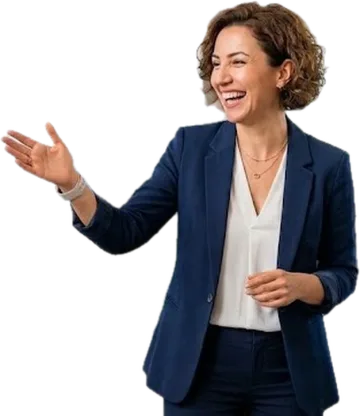
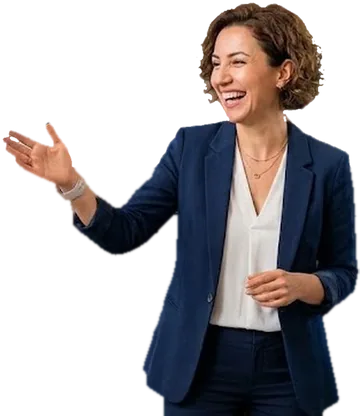
Kampanya kişi görseli: eski beyaz arka plandan kalan kenar halesi ve saç arasındaki beyazlıklar temizlendi; ?v=2

diff --git a/blog/index.html b/blog/index.html
@@ -2438,7 +2438,7 @@
         <div class="pv-dots"></div>
         <div class="pv-ring r3"></div><div class="pv-ring r2"></div><div class="pv-ring r1"></div>
         <div class="pv-glow"></div>
-        <img class="pv-person" src="/img/kampanya-kisi-626.webp" srcset="/img/kampanya-kisi-360.webp 360w, /img/kampanya-kisi-626.webp 626w" sizes="(max-width: 760px) 310px, 440px" width="626" height="722" decoding="async" alt="">
+        <img class="pv-person" src="/img/kampanya-kisi-626.webp?v=2" srcset="/img/kampanya-kisi-360.webp?v=2 360w, /img/kampanya-kisi-626.webp?v=2 626w" sizes="(max-width: 760px) 310px, 440px" width="626" height="722" decoding="async" alt="">
         <div class="pv-float f1 pv-star"><i>∞</i><div><small>En büyük avantaj</small>Sınırsız e-Fatura Kontörü<span class="free">Ofis&nbsp;PLUS · Jet</span></div></div>
         <div class="pv-float f2"><i><svg><use href="#i-sign"/></svg></i><div><small>Ofis&nbsp;PLUS · Jet&nbsp;PLUS</small>1 Yıllık e-İmza</div></div>
         <div class="pv-float f3"><i><svg><use href="#i-bank"/></svg></i><div><small>Ofis&nbsp;PLUS</small>Banka Entegrasyonu</div></div>

diff --git a/cari-hesap-programi/index.html b/cari-hesap-programi/index.html
@@ -490,7 +490,7 @@
         <div class="pv-dots"></div>
         <div class="pv-ring r3"></div><div class="pv-ring r2"></div><div class="pv-ring r1"></div>
         <div class="pv-glow"></div>
-        <img class="pv-person" src="/img/kampanya-kisi-626.webp" srcset="/img/kampanya-kisi-360.webp 360w, /img/kampanya-kisi-626.webp 626w" sizes="(max-width: 760px) 310px, 440px" width="626" height="722" decoding="async" alt="">
+        <img class="pv-person" src="/img/kampanya-kisi-626.webp?v=2" srcset="/img/kampanya-kisi-360.webp?v=2 360w, /img/kampanya-kisi-626.webp?v=2 626w" sizes="(max-width: 760px) 310px, 440px" width="626" height="722" decoding="async" alt="">
         <div class="pv-float f1 pv-star"><i>∞</i><div><small>En büyük avantaj</small>Sınırsız e-Fatura Kontörü<span class="free">Ofis&nbsp;PLUS · Jet</span></div></div>
         <div class="pv-float f2"><i><svg><use href="#i-sign"/></svg></i><div><small>Ofis&nbsp;PLUS · Jet&nbsp;PLUS</small>1 Yıllık e-İmza</div></div>
         <div class="pv-float f3"><i><svg><use href="#i-bank"/></svg></i><div><small>Ofis&nbsp;PLUS</small>Banka Entegrasyonu</div></div>

diff --git a/e-arsiv/index.html b/e-arsiv/index.html
@@ -521,7 +521,7 @@
         <div class="pv-dots"></div>
         <div class="pv-ring r3"></div><div class="pv-ring r2"></div><div class="pv-ring r1"></div>
         <div class="pv-glow"></div>
-        <img class="pv-person" src="/img/kampanya-kisi-626.webp" srcset="/img/kampanya-kisi-360.webp 360w, /img/kampanya-kisi-626.webp 626w" sizes="(max-width: 760px) 310px, 440px" width="626" height="722" decoding="async" alt="">
+        <img class="pv-person" src="/img/kampanya-kisi-626.webp?v=2" srcset="/img/kampanya-kisi-360.webp?v=2 360w, /img/kampanya-kisi-626.webp?v=2 626w" sizes="(max-width: 760px) 310px, 440px" width="626" height="722" decoding="async" alt="">
         <div class="pv-float f1 pv-star"><i>∞</i><div><small>En büyük avantaj</small>Sınırsız e-Fatura Kontörü<span class="free">Ofis&nbsp;PLUS · Jet</span></div></div>
         <div class="pv-float f2"><i><svg><use href="#i-sign"/></svg></i><div><small>Ofis&nbsp;PLUS · Jet&nbsp;PLUS</small>1 Yıllık e-İmza</div></div>
         <div class="pv-float f3"><i><svg><use href="#i-bank"/></svg></i><div><small>Ofis&nbsp;PLUS</small>Banka Entegrasyonu</div></div>

diff --git a/e-fatura/index.html b/e-fatura/index.html
@@ -506,7 +506,7 @@
         <div class="pv-dots"></div>
         <div class="pv-ring r3"></div><div class="pv-ring r2"></div><div class="pv-ring r1"></div>
         <div class="pv-glow"></div>
-        <img class="pv-person" src="/img/kampanya-kisi-626.webp" srcset="/img/kampanya-kisi-360.webp 360w, /img/kampanya-kisi-626.webp 626w" sizes="(max-width: 760px) 310px, 440px" width="626" height="722" decoding="async" alt="">
+        <img class="pv-person" src="/img/kampanya-kisi-626.webp?v=2" srcset="/img/kampanya-kisi-360.webp?v=2 360w, /img/kampanya-kisi-626.webp?v=2 626w" sizes="(max-width: 760px) 310px, 440px" width="626" height="722" decoding="async" alt="">
         <div class="pv-float f1 pv-star"><i>∞</i><div><small>En büyük avantaj</small>Sınırsız e-Fatura Kontörü<span class="free">Ofis&nbsp;PLUS · Jet</span></div></div>
         <div class="pv-float f2"><i><svg><use href="#i-sign"/></svg></i><div><small>Ofis&nbsp;PLUS · Jet&nbsp;PLUS</small>1 Yıllık e-İmza</div></div>
         <div class="pv-float f3"><i><svg><use href="#i-bank"/></svg></i><div><small>Ofis&nbsp;PLUS</small>Banka Entegrasyonu</div></div>

diff --git a/e-ihracat-programi/index.html b/e-ihracat-programi/index.html
@@ -521,7 +521,7 @@
         <div class="pv-dots"></div>
         <div class="pv-ring r3"></div><div class="pv-ring r2"></div><div class="pv-ring r1"></div>
         <div class="pv-glow"></div>
-        <img class="pv-person" src="/img/kampanya-kisi-626.webp" srcset="/img/kampanya-kisi-360.webp 360w, /img/kampanya-kisi-626.webp 626w" sizes="(max-width: 760px) 310px, 440px" width="626" height="722" decoding="async" alt="">
+        <img class="pv-person" src="/img/kampanya-kisi-626.webp?v=2" srcset="/img/kampanya-kisi-360.webp?v=2 360w, /img/kampanya-kisi-626.webp?v=2 626w" sizes="(max-width: 760px) 310px, 440px" width="626" height="722" decoding="async" alt="">
         <div class="pv-float f1 pv-star"><i>∞</i><div><small>En büyük avantaj</small>Sınırsız e-Fatura Kontörü<span class="free">Ofis&nbsp;PLUS · Jet</span></div></div>
         <div class="pv-float f2"><i><svg><use href="#i-sign"/></svg></i><div><small>Ofis&nbsp;PLUS · Jet&nbsp;PLUS</small>1 Yıllık e-İmza</div></div>
         <div class="pv-float f3"><i><svg><use href="#i-bank"/></svg></i><div><small>Ofis&nbsp;PLUS</small>Banka Entegrasyonu</div></div>

diff --git a/e-imza-programi/index.html b/e-imza-programi/index.html
@@ -623,7 +623,7 @@
         <div class="pv-dots"></div>
         <div class="pv-ring r3"></div><div class="pv-ring r2"></div><div class="pv-ring r1"></div>
         <div class="pv-glow"></div>
-        <img class="pv-person" src="/img/kampanya-kisi-626.webp" srcset="/img/kampanya-kisi-360.webp 360w, /img/kampanya-kisi-626.webp 626w" sizes="(max-width: 760px) 310px, 440px" width="626" height="722" decoding="async" alt="">
+        <img class="pv-person" src="/img/kampanya-kisi-626.webp?v=2" srcset="/img/kampanya-kisi-360.webp?v=2 360w, /img/kampanya-kisi-626.webp?v=2 626w" sizes="(max-width: 760px) 310px, 440px" width="626" height="722" decoding="async" alt="">
         <div class="pv-float f1 pv-star"><i>∞</i><div><small>En büyük avantaj</small>Sınırsız e-Fatura Kontörü<span class="free">Ofis&nbsp;PLUS · Jet</span></div></div>
         <div class="pv-float f2"><i><svg><use href="#i-sign"/></svg></i><div><small>Ofis&nbsp;PLUS · Jet&nbsp;PLUS</small>1 Yıllık e-İmza</div></div>
         <div class="pv-float f3"><i><svg><use href="#i-bank"/></svg></i><div><small>Ofis&nbsp;PLUS</small>Banka Entegrasyonu</div></div>

diff --git a/e-irsaliye/index.html b/e-irsaliye/index.html
@@ -541,7 +541,7 @@
         <div class="pv-dots"></div>
         <div class="pv-ring r3"></div><div class="pv-ring r2"></div><div class="pv-ring r1"></div>
         <div class="pv-glow"></div>
-        <img class="pv-person" src="/img/kampanya-kisi-626.webp" srcset="/img/kampanya-kisi-360.webp 360w, /img/kampanya-kisi-626.webp 626w" sizes="(max-width: 760px) 310px, 440px" width="626" height="722" decoding="async" alt="">
+        <img class="pv-person" src="/img/kampanya-kisi-626.webp?v=2" srcset="/img/kampanya-kisi-360.webp?v=2 360w, /img/kampanya-kisi-626.webp?v=2 626w" sizes="(max-width: 760px) 310px, 440px" width="626" height="722" decoding="async" alt="">
         <div class="pv-float f1 pv-star"><i>∞</i><div><small>En büyük avantaj</small>Sınırsız e-Fatura Kontörü<span class="free">Ofis&nbsp;PLUS · Jet</span></div></div>
         <div class="pv-float f2"><i><svg><use href="#i-sign"/></svg></i><div><small>Ofis&nbsp;PLUS · Jet&nbsp;PLUS</small>1 Yıllık e-İmza</div></div>
         <div class="pv-float f3"><i><svg><use href="#i-bank"/></svg></i><div><small>Ofis&nbsp;PLUS</small>Banka Entegrasyonu</div></div>

diff --git a/e-smm-programi/index.html b/e-smm-programi/index.html
@@ -527,7 +527,7 @@
         <div class="pv-dots"></div>
         <div class="pv-ring r3"></div><div class="pv-ring r2"></div><div class="pv-ring r1"></div>
         <div class="pv-glow"></div>
-        <img class="pv-person" src="/img/kampanya-kisi-626.webp" srcset="/img/kampanya-kisi-360.webp 360w, /img/kampanya-kisi-626.webp 626w" sizes="(max-width: 760px) 310px, 440px" width="626" height="722" decoding="async" alt="">
+        <img class="pv-person" src="/img/kampanya-kisi-626.webp?v=2" srcset="/img/kampanya-kisi-360.webp?v=2 360w, /img/kampanya-kisi-626.webp?v=2 626w" sizes="(max-width: 760px) 310px, 440px" width="626" height="722" decoding="async" alt="">
         <div class="pv-float f1 pv-star"><i>∞</i><div><small>En büyük avantaj</small>Sınırsız e-Fatura Kontörü<span class="free">Ofis&nbsp;PLUS · Jet</span></div></div>
         <div class="pv-float f2"><i><svg><use href="#i-sign"/></svg></i><div><small>Ofis&nbsp;PLUS · Jet&nbsp;PLUS</small>1 Yıllık e-İmza</div></div>
         <div class="pv-float f3"><i><svg><use href="#i-bank"/></svg></i><div><small>Ofis&nbsp;PLUS</small>Banka Entegrasyonu</div></div>

diff --git a/fatura-kesme-programi/index.html b/fatura-kesme-programi/index.html
@@ -472,7 +472,7 @@
         <div class="pv-dots"></div>
         <div class="pv-ring r3"></div><div class="pv-ring r2"></div><div class="pv-ring r1"></div>
         <div class="pv-glow"></div>
-        <img class="pv-person" src="/img/kampanya-kisi-626.webp" srcset="/img/kampanya-kisi-360.webp 360w, /img/kampanya-kisi-626.webp 626w" sizes="(max-width: 760px) 310px, 440px" width="626" height="722" decoding="async" alt="">
+        <img class="pv-person" src="/img/kampanya-kisi-626.webp?v=2" srcset="/img/kampanya-kisi-360.webp?v=2 360w, /img/kampanya-kisi-626.webp?v=2 626w" sizes="(max-width: 760px) 310px, 440px" width="626" height="722" decoding="async" alt="">
         <div class="pv-float f1 pv-star"><i>∞</i><div><small>En büyük avantaj</small>Sınırsız e-Fatura Kontörü<span class="free">Ofis&nbsp;PLUS · Jet</span></div></div>
         <div class="pv-float f2"><i><svg><use href="#i-sign"/></svg></i><div><small>Ofis&nbsp;PLUS · Jet&nbsp;PLUS</small>1 Yıllık e-İmza</div></div>
         <div class="pv-float f3"><i><svg><use href="#i-bank"/></svg></i><div><small>Ofis&nbsp;PLUS</small>Banka Entegrasyonu</div></div>

diff --git a/gelir-gider-takip-programi/index.html b/gelir-gider-takip-programi/index.html
@@ -487,7 +487,7 @@
         <div class="pv-dots"></div>
         <div class="pv-ring r3"></div><div class="pv-ring r2"></div><div class="pv-ring r1"></div>
         <div class="pv-glow"></div>
-        <img class="pv-person" src="/img/kampanya-kisi-626.webp" srcset="/img/kampanya-kisi-360.webp 360w, /img/kampanya-kisi-626.webp 626w" sizes="(max-width: 760px) 310px, 440px" width="626" height="722" decoding="async" alt="">
+        <img class="pv-person" src="/img/kampanya-kisi-626.webp?v=2" srcset="/img/kampanya-kisi-360.webp?v=2 360w, /img/kampanya-kisi-626.webp?v=2 626w" sizes="(max-width: 760px) 310px, 440px" width="626" height="722" decoding="async" alt="">
         <div class="pv-float f1 pv-star"><i>∞</i><div><small>En büyük avantaj</small>Sınırsız e-Fatura Kontörü<span class="free">Ofis&nbsp;PLUS · Jet</span></div></div>
         <div class="pv-float f2"><i><svg><use href="#i-sign"/></svg></i><div><small>Ofis&nbsp;PLUS · Jet&nbsp;PLUS</small>1 Yıllık e-İmza</div></div>
         <div class="pv-float f3"><i><svg><use href="#i-bank"/></svg></i><div><small>Ofis&nbsp;PLUS</small>Banka Entegrasyonu</div></div>

diff --git a/index.html b/index.html
@@ -610,7 +610,7 @@
         <div class="pv-dots"></div>
         <div class="pv-ring r3"></div><div class="pv-ring r2"></div><div class="pv-ring r1"></div>
         <div class="pv-glow"></div>
-        <img class="pv-person" src="/img/kampanya-kisi-626.webp" srcset="/img/kampanya-kisi-360.webp 360w, /img/kampanya-kisi-626.webp 626w" sizes="(max-width: 760px) 310px, 440px" width="626" height="722" decoding="async" alt="">
+        <img class="pv-person" src="/img/kampanya-kisi-626.webp?v=2" srcset="/img/kampanya-kisi-360.webp?v=2 360w, /img/kampanya-kisi-626.webp?v=2 626w" sizes="(max-width: 760px) 310px, 440px" width="626" height="722" decoding="async" alt="">
         <div class="pv-float f1 pv-star"><i>∞</i><div><small>En büyük avantaj</small>Sınırsız e-Fatura Kontörü<span class="free">Ofis&nbsp;PLUS · Jet</span></div></div>
         <div class="pv-float f2"><i><svg><use href="#i-sign"/></svg></i><div><small>Ofis&nbsp;PLUS · Jet&nbsp;PLUS</small>1 Yıllık e-İmza</div></div>
         <div class="pv-float f3"><i><svg><use href="#i-bank"/></svg></i><div><small>Ofis&nbsp;PLUS</small>Banka Entegrasyonu</div></div>

diff --git a/kolay-on-muhasebe-programi/index.html b/kolay-on-muhasebe-programi/index.html
@@ -524,7 +524,7 @@
         <div class="pv-dots"></div>
         <div class="pv-ring r3"></div><div class="pv-ring r2"></div><div class="pv-ring r1"></div>
         <div class="pv-glow"></div>
-        <img class="pv-person" src="/img/kampanya-kisi-626.webp" srcset="/img/kampanya-kisi-360.webp 360w, /img/kampanya-kisi-626.webp 626w" sizes="(max-width: 760px) 310px, 440px" width="626" height="722" decoding="async" alt="">
+        <img class="pv-person" src="/img/kampanya-kisi-626.webp?v=2" srcset="/img/kampanya-kisi-360.webp?v=2 360w, /img/kampanya-kisi-626.webp?v=2 626w" sizes="(max-width: 760px) 310px, 440px" width="626" height="722" decoding="async" alt="">
         <div class="pv-float f1 pv-star"><i>∞</i><div><small>En büyük avantaj</small>Sınırsız e-Fatura Kontörü<span class="free">Ofis&nbsp;PLUS · Jet</span></div></div>
         <div class="pv-float f2"><i><svg><use href="#i-sign"/></svg></i><div><small>Ofis&nbsp;PLUS · Jet&nbsp;PLUS</small>1 Yıllık e-İmza</div></div>
         <div class="pv-float f3"><i><svg><use href="#i-bank"/></svg></i><div><small>Ofis&nbsp;PLUS</small>Banka Entegrasyonu</div></div>
